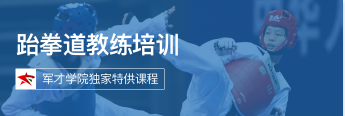
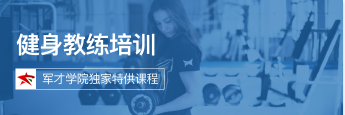
修改

diff --git a/src/pages/company/learnson.vue b/src/pages/company/learnson.vue
@@ -58,13 +58,20 @@ export default {
         {
           id:'3',
           url:require('@/assets/img/c3.png'),
-          tag:['高薪','好就业'],
-          detail:'跆拳道项目是1995年才开始正式在我国发展，而云南早在1985年就开始出现了跆拳道的传播，浙江通过近10多年的发展，也有较广的群众基础和爱好者。经过20多年的发展，群众基础广泛；杭州市内就有大小道馆近千家，有超过50万人参加过跆拳道的训练。为了能更进一步的推广普及跆拳道运动，提高浙江省跆拳道运动水平，由浙江省体育局群众体育指导中心跆拳道训练基地发起，旨在探索新的跆拳道运动推广方式与开发新的跆拳道产品，培养新形式下的跆拳道教练员。在跆拳道人才培养的模式上,转变单一技术性的培养模式,重视创新型退伍军人人才和复合型退伍军人人才的培养，培养专业竞技型退伍军人跆拳道人才。',
-          todos:'经过专业的师资培训并考核合格者颁发国家体育总局国家级教练员证书、社会体育指导员证书'
+          tag:['退伍军人100%就业'],
+          detail:'必果(BNGO)学府为私人教练培训机构,隶属于奇迹麦瑞可(北京)健身服务有限公司,培训业务覆盖北京、成都、绵阳、长沙、株洲、荆州、常州、南京、无锡、等多个省市,现在全国地区没有多个独立培训基地,培训场地面积超3000m,是中国职业健身教练培训的知名品牌。致力打造行业精英私人教练,给喜欢锻炼的你和希望从事私教行业的你一个专业、可靠的平台。必果学府办学理念借鉴于言必信,行必果。 我们是一支专业的团队。我们的导师拥有各类国际认证,多年的教学经验,平均授课5000节以上,大多数来自国内知名健身品牌的一线骨干。我们是一支年轻的团队。我们的平均年龄仅有28岁充满了朝气和创新精神。我们是一支专注的团队。我们坚信,专业的品牌源自客户的信任。只有专注,才能做好专业。我们是一支有梦想的团队。我们来自五湖四海,因为个共同的梦想,汇聚一起,构建-家真正优秀的健身教练培训机构。为学员带来健康的体魄、专业的技能以及实战经验。一、获得的证书：1、ACE国际认证、TRX-STC认证、4S脊柱康复认证2、NSCA-cpt美国国家体能协会认证3、健身教练国家职业资格高级认证 4、FM意大利筋摸国际认证、ANATOMY TRAINS国际认证、Functional Movement Screen国际认证、REDCORD- ACTIVE挪威官方国际认证、The- Band运动防护专家认证  5、国家高级按摩师动康复治疗6、NASM-CPT国际私人教练认证7、中国康复治疗师认证',
+          todos:'高级私人健身教练'
         },
         {
           id:'4',
           url:require('@/assets/img/c4.png'),
+          tag:['退伍军人100%就业'],
+          detail:'跆拳道项目是1995年才开始正式在我国发展，而云南早在1985年就开始出现了跆拳道的传播，浙江通过近10多年的发展，也有较广的群众基础和爱好者。经过20多年的发展，群众基础广泛；杭州市内就有大小道馆近千家，有超过50万人参加过跆拳道的训练。为了能更进一步的推广普及跆拳道运动，提高浙江省跆拳道运动水平，由浙江省体育局群众体育指导中心跆拳道训练基地发起，旨在探索新的跆拳道运动推广方式与开发新的跆拳道产品，培养新形式下的跆拳道教练员。在跆拳道人才培养的模式上,转变单一技术性的培养模式,重视创新型退伍军人人才和复合型退伍军人人才的培养，培养专业竞技型退伍军人跆拳道人才。',
+          todos:'经过专业的师资培训并考核合格者颁发国家体育总局国家级教练员证书、社会体育指导员证书'
+        },
+        {
+          id:'5',
+          url:require('@/assets/img/c5.png'),
           tag:['退伍军人100%就业'],
           detail:'1. 理论知识要求：职业道德及相关法律法规知识，电梯结构与标准、基础安全操作、初级机械调整、初级电气排故、初级保养检查、扶梯结构与标准、扶梯保养基础、电工材料知识、照明、动力线路及接地知识、机械基础知识、扶梯电控原理、电子电路、安全用电。2. 操作技能要求：安全生产、电工常用工具、材料的应用、电气故障检修、配线与安装、电气线路调试、线路分析、仪器仪表的使用、电动机检修、电气故障检修、基础安全操作、初级机械调整、初级电气排故、初级保养检查、扶梯结构与标准、扶梯保养基础。3. 考证要求：（1）电梯行业从业资格证（特种设备从业人员证）（2）电梯维修工职业技能等级证（初级）',
           todos:'高级电梯维修工程师'

diff --git a/src/pages/learn/learnson.vue b/src/pages/learn/learnson.vue
@@ -58,13 +58,20 @@ export default {
         {
           id:'3',
           url:require('@/assets/img/c3.png'),
-          tag:['高薪','好就业'],
-          detail:'跆拳道项目是1995年才开始正式在我国发展，而云南早在1985年就开始出现了跆拳道的传播，浙江通过近10多年的发展，也有较广的群众基础和爱好者。经过20多年的发展，群众基础广泛；杭州市内就有大小道馆近千家，有超过50万人参加过跆拳道的训练。为了能更进一步的推广普及跆拳道运动，提高浙江省跆拳道运动水平，由浙江省体育局群众体育指导中心跆拳道训练基地发起，旨在探索新的跆拳道运动推广方式与开发新的跆拳道产品，培养新形式下的跆拳道教练员。在跆拳道人才培养的模式上,转变单一技术性的培养模式,重视创新型退伍军人人才和复合型退伍军人人才的培养，培养专业竞技型退伍军人跆拳道人才。',
-          todos:'经过专业的师资培训并考核合格者颁发国家体育总局国家级教练员证书、社会体育指导员证书'
+          tag:['退伍军人100%就业'],
+          detail:'必果(BNGO)学府为私人教练培训机构,隶属于奇迹麦瑞可(北京)健身服务有限公司,培训业务覆盖北京、成都、绵阳、长沙、株洲、荆州、常州、南京、无锡、等多个省市,现在全国地区没有多个独立培训基地,培训场地面积超3000m,是中国职业健身教练培训的知名品牌。致力打造行业精英私人教练,给喜欢锻炼的你和希望从事私教行业的你一个专业、可靠的平台。必果学府办学理念借鉴于言必信,行必果。 我们是一支专业的团队。我们的导师拥有各类国际认证,多年的教学经验,平均授课5000节以上,大多数来自国内知名健身品牌的一线骨干。我们是一支年轻的团队。我们的平均年龄仅有28岁充满了朝气和创新精神。我们是一支专注的团队。我们坚信,专业的品牌源自客户的信任。只有专注,才能做好专业。我们是一支有梦想的团队。我们来自五湖四海,因为个共同的梦想,汇聚一起,构建-家真正优秀的健身教练培训机构。为学员带来健康的体魄、专业的技能以及实战经验。一、获得的证书：1、ACE国际认证、TRX-STC认证、4S脊柱康复认证2、NSCA-cpt美国国家体能协会认证3、健身教练国家职业资格高级认证 4、FM意大利筋摸国际认证、ANATOMY TRAINS国际认证、Functional Movement Screen国际认证、REDCORD- ACTIVE挪威官方国际认证、The- Band运动防护专家认证  5、国家高级按摩师动康复治疗6、NASM-CPT国际私人教练认证7、中国康复治疗师认证',
+          todos:'高级私人健身教练'
         },
         {
           id:'4',
           url:require('@/assets/img/c4.png'),
+          tag:['退伍军人100%就业'],
+          detail:'跆拳道项目是1995年才开始正式在我国发展，而云南早在1985年就开始出现了跆拳道的传播，浙江通过近10多年的发展，也有较广的群众基础和爱好者。经过20多年的发展，群众基础广泛；杭州市内就有大小道馆近千家，有超过50万人参加过跆拳道的训练。为了能更进一步的推广普及跆拳道运动，提高浙江省跆拳道运动水平，由浙江省体育局群众体育指导中心跆拳道训练基地发起，旨在探索新的跆拳道运动推广方式与开发新的跆拳道产品，培养新形式下的跆拳道教练员。在跆拳道人才培养的模式上,转变单一技术性的培养模式,重视创新型退伍军人人才和复合型退伍军人人才的培养，培养专业竞技型退伍军人跆拳道人才。',
+          todos:'经过专业的师资培训并考核合格者颁发国家体育总局国家级教练员证书、社会体育指导员证书'
+        },
+        {
+          id:'5',
+          url:require('@/assets/img/c5.png'),
           tag:['退伍军人100%就业'],
           detail:'1. 理论知识要求：职业道德及相关法律法规知识，电梯结构与标准、基础安全操作、初级机械调整、初级电气排故、初级保养检查、扶梯结构与标准、扶梯保养基础、电工材料知识、照明、动力线路及接地知识、机械基础知识、扶梯电控原理、电子电路、安全用电。2. 操作技能要求：安全生产、电工常用工具、材料的应用、电气故障检修、配线与安装、电气线路调试、线路分析、仪器仪表的使用、电动机检修、电气故障检修、基础安全操作、初级机械调整、初级电气排故、初级保养检查、扶梯结构与标准、扶梯保养基础。3. 考证要求：（1）电梯行业从业资格证（特种设备从业人员证）（2）电梯维修工职业技能等级证（初级）',
           todos:'高级电梯维修工程师'

diff --git a/index.html b/index.html
@@ -4,9 +4,19 @@
     <meta charset="utf-8">
     <meta name="viewport" content="width=device-width,initial-scale=1,user-scalable=0">
     <title>军梦汇</title>
+    <script>
+  var _hmt = _hmt || [];
+  (function() {
+    var hm = document.createElement("script");
+    hm.src = "https://hm.baidu.com/hm.js?cb0c9748703287013883e3492665ee8b";
+    var s = document.getElementsByTagName("script")[0];
+    s.parentNode.insertBefore(hm, s);
+  })();
+  </script>
   </head>
   <body>
     <div id="app-box"></div>
     <!-- built files will be auto injected -->
   </body>
+
 </html>

diff --git a/src/pages/company/learn.vue b/src/pages/company/learn.vue
@@ -74,11 +74,16 @@ export default {
         {
           id:'3',
           url:require('@/assets/img/c3.png'),
-          tag:['高薪','好就业'],
+          tag:['退伍军人100%就业'],
         },
         {
           id:'4',
           url:require('@/assets/img/c4.png'),
+          tag:['退伍军人100%就业'],
+        },
+        {
+          id:'5',
+          url:require('@/assets/img/c5.png'),
           tag:['退伍军人100%就业'],
         },
       ],

diff --git a/src/pages/individual/learn.vue b/src/pages/individual/learn.vue
@@ -74,11 +74,16 @@ export default {
         {
           id:'3',
           url:require('@/assets/img/c3.png'),
-          tag:['高薪','好就业'],
+          tag:['退伍军人100%就业'],
         },
         {
           id:'4',
           url:require('@/assets/img/c4.png'),
+          tag:['退伍军人100%就业'],
+        },
+        {
+          id:'5',
+          url:require('@/assets/img/c5.png'),
           tag:['退伍军人100%就业'],
         },
       ],
